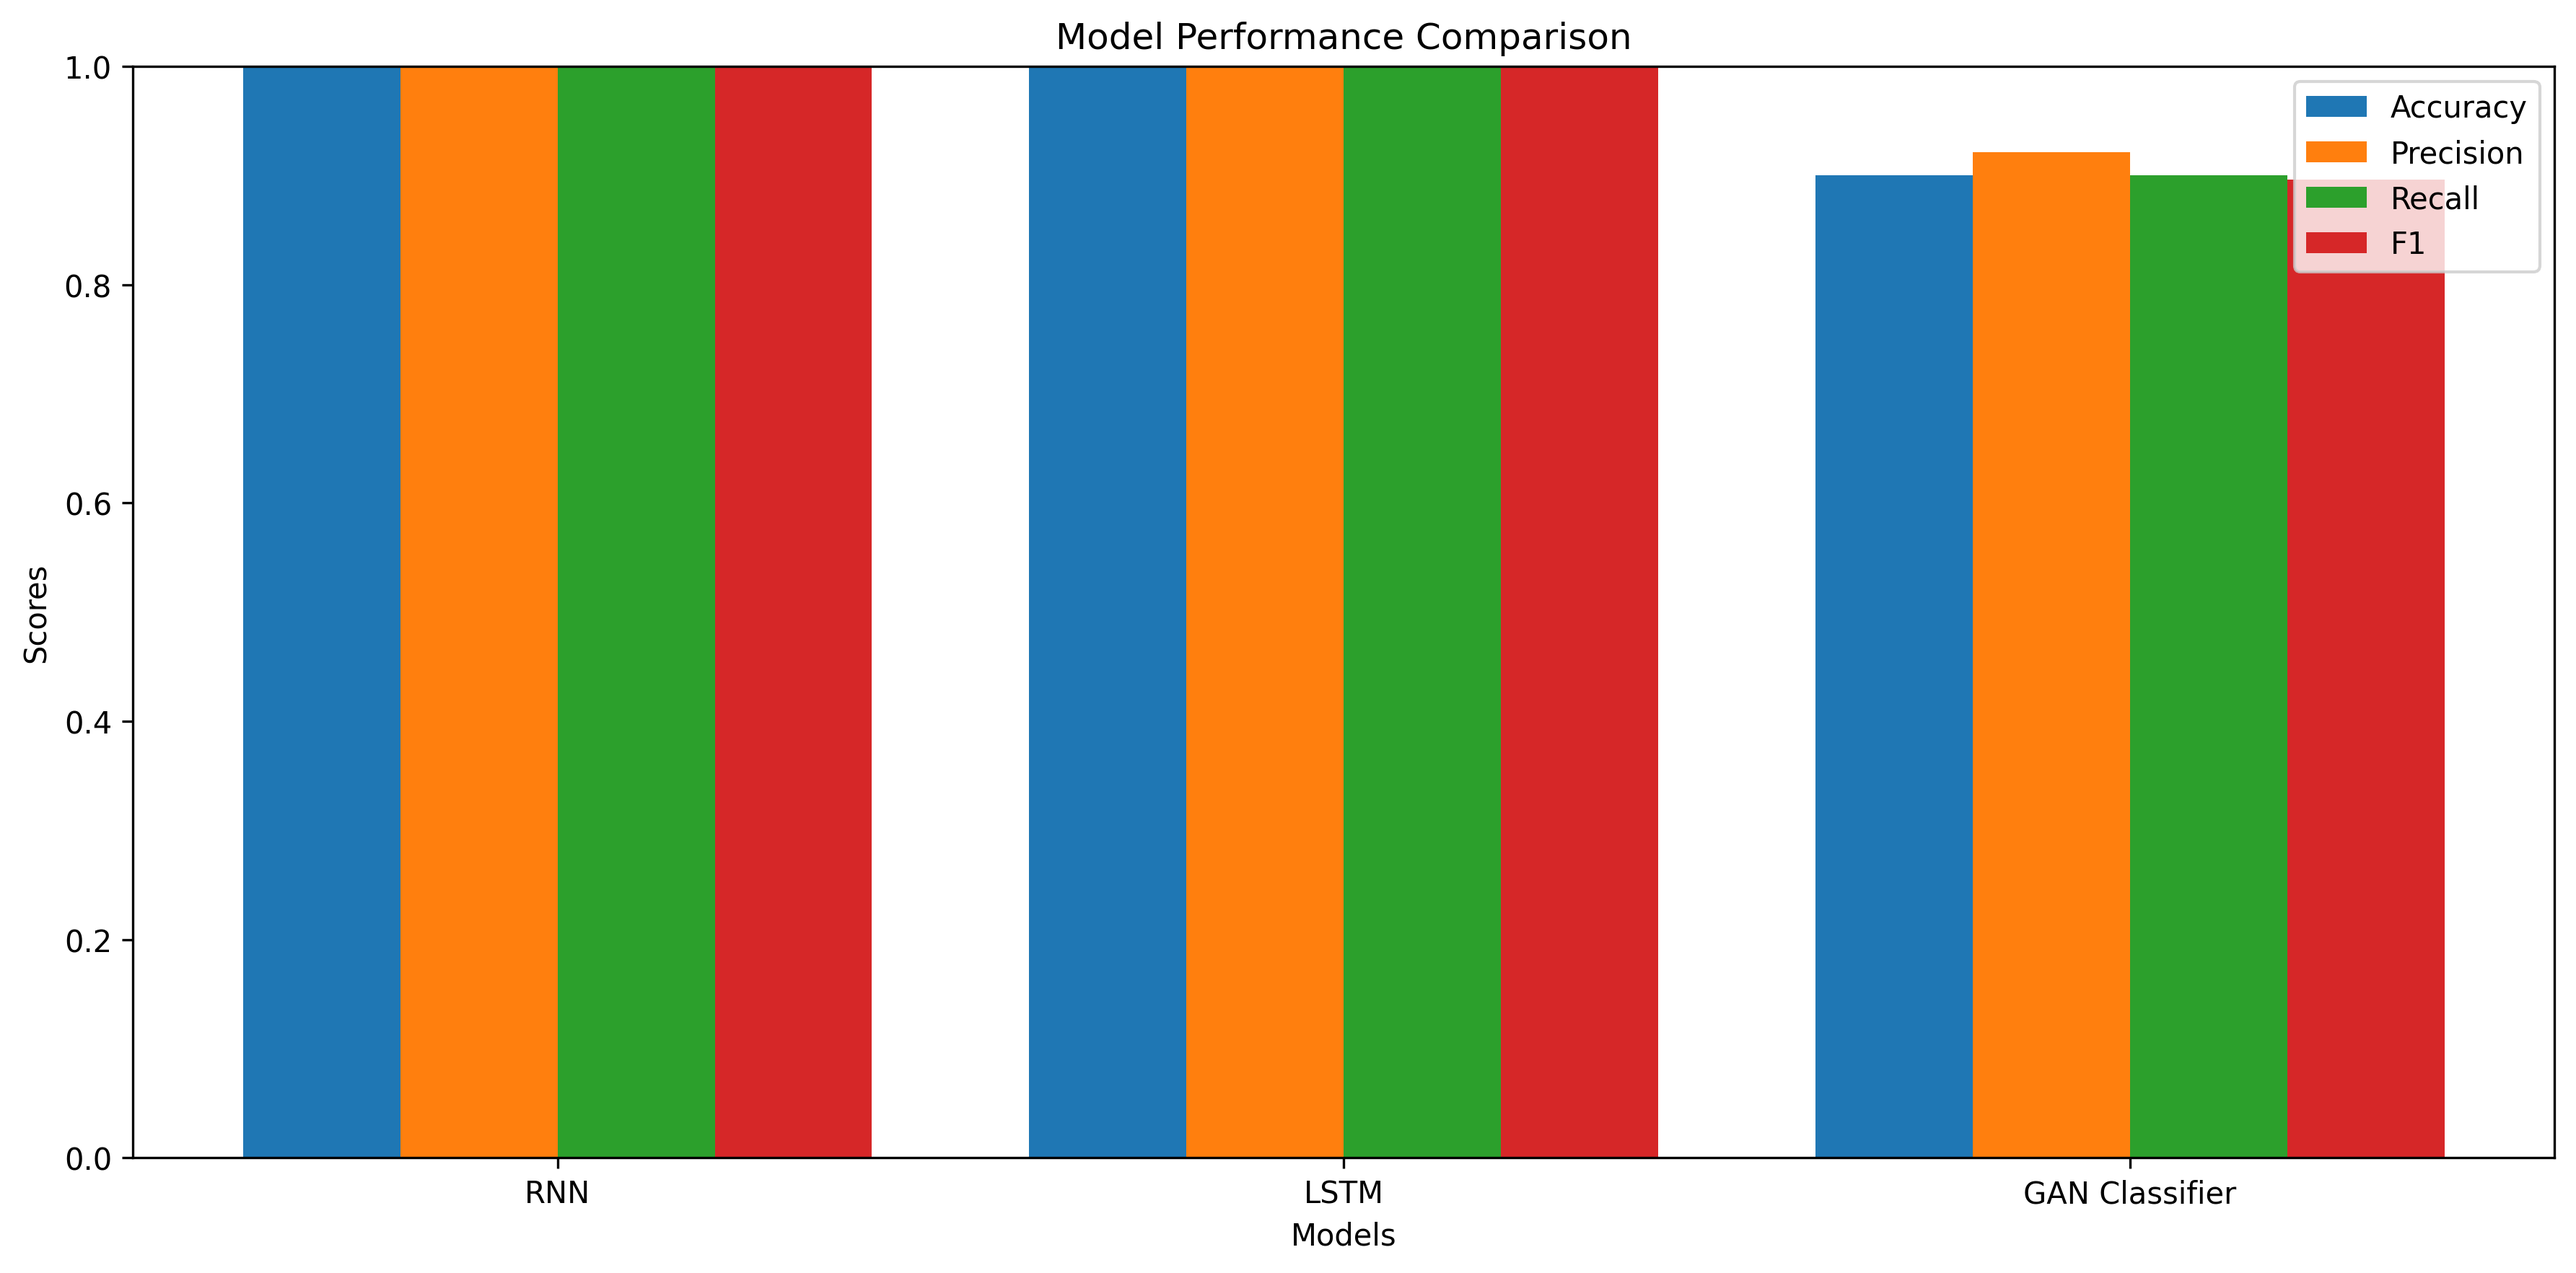
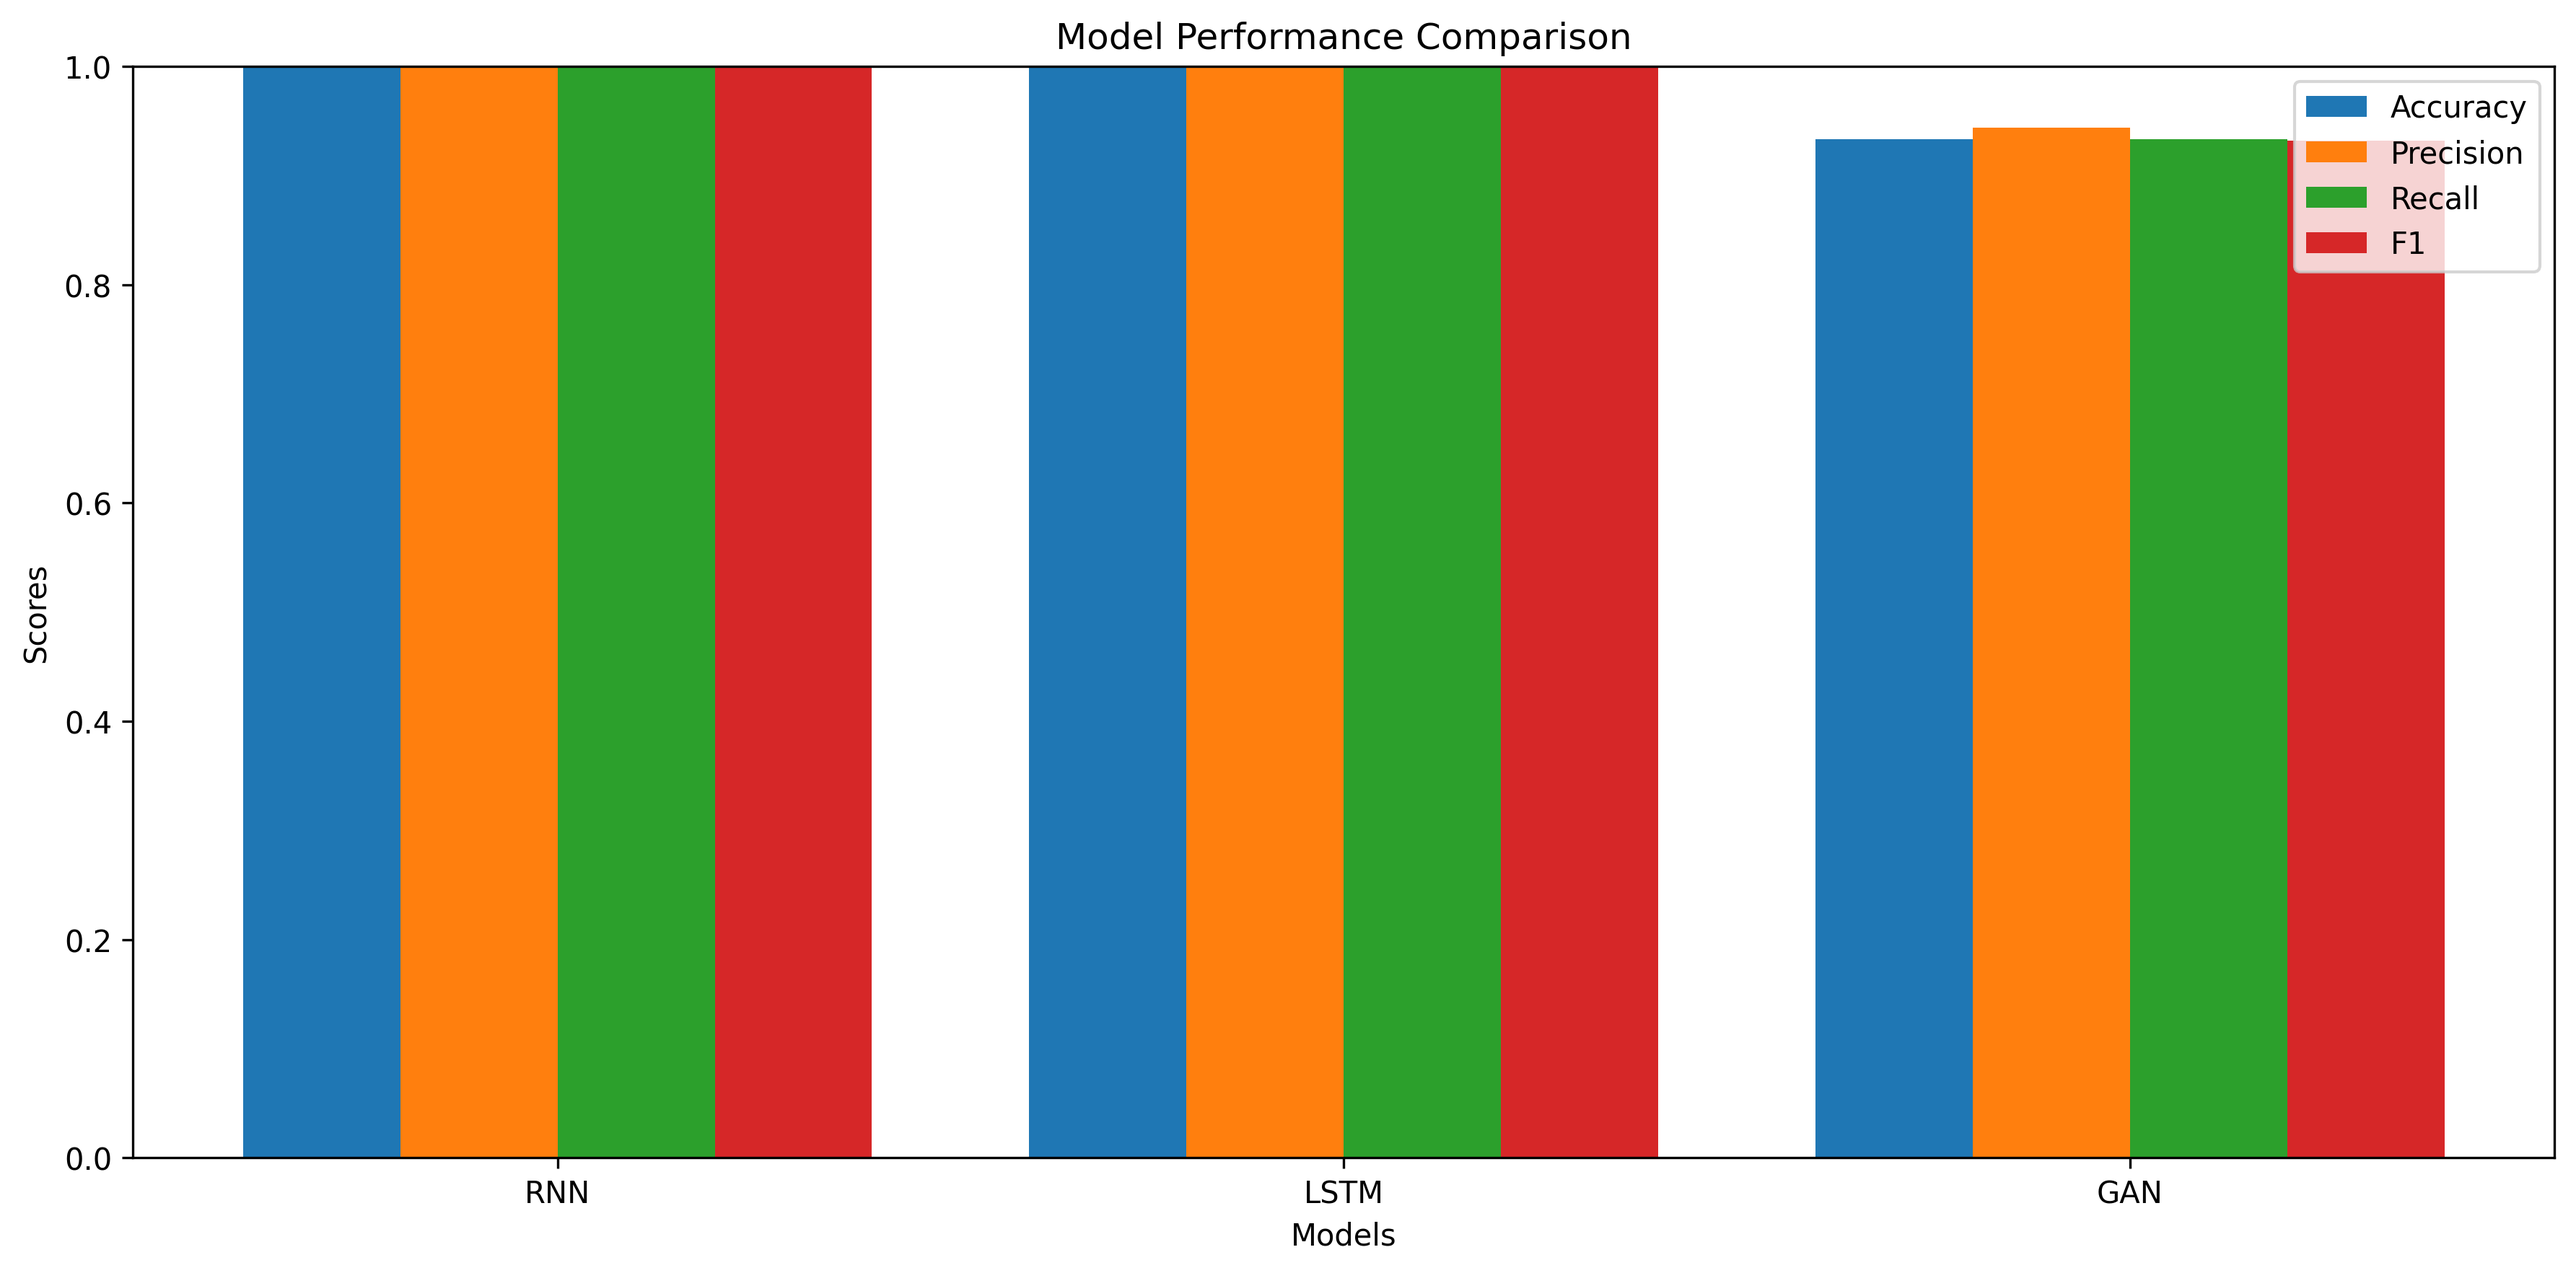
added basic metrics graphs

Changed region(s): [[0.684, 0.0935, 0.9639, 0.1558], [0.7773, 0.9037, 0.8706, 0.966]]

diff --git a/Main.py b/Main.py
@@ -2,45 +2,12 @@
 
 import numpy as np
 import pandas as pd
-import matplotlib.pyplot as plt
 from data_utils import load_and_preprocess_iris, reshape_for_rnn
 from rnn_model import RNNModel
 from lstm_model import LSTMModel
 from gan_model import GAN, GANClassifier
-
-
-def print_metrics(model_name, metrics):
-    """Print model evaluation metrics."""
-    print(f"\n{model_name} Metrics:")
-    print(f"  Accuracy:  {metrics['accuracy']:.4f}")
-    print(f"  Precision: {metrics['precision']:.4f}")
-    print(f"  Recall:    {metrics['recall']:.4f}")
-    print(f"  F1-Score:  {metrics['f1']:.4f}")
-
-
-def plot_metrics(model_names, metrics_list, filename='results.png'):
-    """Plot bar chart for model metrics."""
-    x = np.arange(len(model_names))
-    width = 0.2
-    
-    fig, ax = plt.subplots(figsize=(12, 6))
-    metrics_keys = ['accuracy', 'precision', 'recall', 'f1']
-    
-    for i, key in enumerate(metrics_keys):
-        values = [m[key] for m in metrics_list]
-        ax.bar(x + i*width, values, width, label=key.capitalize())
-    
-    ax.set_xlabel('Models')
-    ax.set_ylabel('Scores')
-    ax.set_title('Model Performance Comparison')
-    ax.set_xticks(x + width * 1.5)
-    ax.set_xticklabels(model_names)
-    ax.legend()
-    ax.set_ylim(0, 1)
-    plt.tight_layout()
-    plt.savefig(filename, dpi=300, bbox_inches='tight')
-    plt.show()
-    print(f"Graph saved as {filename}")
+from evaluation import print_metrics, plot_confusion_matrix, plot_learning_curves, plot_metrics
+from cross_validation import get_cv_scores
 
 
 def main():
@@ -50,102 +17,89 @@ def main():
     print("Loading and preprocessing data...")
     print("="*60)
     
-    # Load and preprocess data
-    X_train, X_test, y_train, y_test, scaler, encoder = load_and_preprocess_iris()
-    print(f"Training set shape: {X_train.shape}")
-    print(f"Test set shape: {X_test.shape}")
+    # Load data
+    X, X_test, y, y_test, scaler, encoder = load_and_preprocess_iris()
+    X_rnn, X_test_rnn = reshape_for_rnn(X, X_test)
     
-    # Reshape for RNN/LSTM
-    X_train_rnn, X_test_rnn = reshape_for_rnn(X_train, X_test)
-    print(f"RNN-reshaped training shape: {X_train_rnn.shape}")
+    print(f"Full dataset shape: {X.shape}")
     
-    # ==================== RNN MODEL ====================
+    # ==================== CROSS-VALIDATION ====================
     print("\n" + "="*60)
-    print("Training RNN Model...")
+    print("CROSS-VALIDATION (5-fold)")
     print("="*60)
     
-    rnn = RNNModel(hidden_units=50, dropout=0.1, learning_rate=0.001)
+    rnn_cv = get_cv_scores(RNNModel, X_rnn, y, input_shape=(1, 4), cv_folds=5)
+    print(f"RNN CV: {rnn_cv['mean_accuracy']:.4f} (+/- {rnn_cv['std_accuracy']:.4f})")
+    
+    lstm_cv = get_cv_scores(LSTMModel, X_rnn, y, input_shape=(1, 4), cv_folds=5)
+    print(f"LSTM CV: {lstm_cv['mean_accuracy']:.4f} (+/- {lstm_cv['std_accuracy']:.4f})")
+    
+    # ==================== TRAIN AND EVALUATE ====================
+    print("\n" + "="*60)
+    print("Training individual models...")
+    print("="*60)
+    
+    # RNN
+    rnn = RNNModel(hidden_units=50, dropout=0.1)
     rnn.build(input_shape=(1, 4), num_classes=3)
-    rnn.train(X_train_rnn, y_train, epochs=50, batch_size=10, validation_split=0.2, verbose=0)
+    rnn_history = rnn.train(X_rnn, y, epochs=50, batch_size=10, validation_split=0.2)
     rnn_metrics = rnn.evaluate(X_test_rnn, y_test)
     print_metrics("RNN", rnn_metrics)
+    plot_learning_curves(rnn_history, "RNN")
     
-    # ==================== LSTM MODEL ====================
-    print("\n" + "="*60)
-    print("Training LSTM Model...")
-    print("="*60)
+    y_pred_rnn = np.argmax(rnn.predict(X_test_rnn), axis=1)
+    y_test_labels = np.argmax(y_test, axis=1)
+    plot_confusion_matrix(y_test_labels, y_pred_rnn, "RNN")
     
-    lstm = LSTMModel(hidden_units=50, dropout=0.1, learning_rate=0.001)
+    # LSTM
+    lstm = LSTMModel(hidden_units=50, dropout=0.1)
     lstm.build(input_shape=(1, 4), num_classes=3)
-    lstm.train(X_train_rnn, y_train, epochs=50, batch_size=10, validation_split=0.2, verbose=0)
+    lstm_history = lstm.train(X_rnn, y, epochs=50, batch_size=10, validation_split=0.2)
     lstm_metrics = lstm.evaluate(X_test_rnn, y_test)
     print_metrics("LSTM", lstm_metrics)
+    plot_learning_curves(lstm_history, "LSTM")
     
-    # ==================== GAN MODEL ====================
+    y_pred_lstm = np.argmax(lstm.predict(X_test_rnn), axis=1)
+    plot_confusion_matrix(y_test_labels, y_pred_lstm, "LSTM")
+    
+    # GAN (no CV for GAN - complex)
     print("\n" + "="*60)
-    print("Training GAN Model...")
+    print("Training GAN...")
     print("="*60)
     
-    gan = GAN(input_dim=4, generator_units=8, discriminator_units=8, learning_rate=0.0002)
+    gan = GAN(input_dim=4, generator_units=8, discriminator_units=8)
     gan.build_generator()
     gan.build_discriminator()
     gan.build_gan()
-    gan.train(X_train, epochs=100, batch_size=32, verbose_interval=50)
+    gan.train(X, epochs=100, batch_size=32)
     
-    print("\nGenerating augmented data with GAN...")
-    generated_samples = gan.generate_samples(X_test.shape[0])
-    gan_X = np.concatenate((X_test, generated_samples), axis=0)
-    gan_y = np.concatenate((y_test.argmax(axis=1), y_test.argmax(axis=1)), axis=0)
+    generated = gan.generate_samples(X_test.shape[0])
+    gan_X = np.concatenate((X_test, generated))
+    gan_y = np.concatenate((y_test.argmax(axis=1), y_test.argmax(axis=1)))
     gan_y_onehot = np.eye(3)[gan_y]
     
-    print("Training classifier on GAN-augmented data...")
-    gan_classifier = GANClassifier(hidden_units=10, learning_rate=0.001)
+    gan_classifier = GANClassifier(hidden_units=10)
     gan_classifier.build(input_dim=4, num_classes=3)
-    gan_classifier.train(gan_X, gan_y_onehot, epochs=50, batch_size=10, verbose=0)
-    
+    gan_history = gan_classifier.train(gan_X, gan_y_onehot, epochs=50, batch_size=10)
     gan_metrics = gan_classifier.evaluate(X_test, y_test)
-    print_metrics("GAN-based Classifier", gan_metrics)
+    print_metrics("GAN Classifier", gan_metrics)
+    plot_learning_curves(gan_history, "GAN Classifier")
     
-    # ==================== SUMMARY ====================
-    print("\n" + "="*60)
-    print("SUMMARY OF RESULTS")
-    print("="*60)
+    y_pred_gan = np.argmax(gan_classifier.predict(X_test), axis=1)
+    plot_confusion_matrix(y_test_labels, y_pred_gan, "GAN Classifier")
     
-    summary_data = {
-        'Model': ['RNN', 'LSTM', 'GAN Classifier'],
-        'Accuracy': [rnn_metrics['accuracy'], lstm_metrics['accuracy'], gan_metrics['accuracy']],
-        'Precision': [rnn_metrics['precision'], lstm_metrics['precision'], gan_metrics['precision']],
-        'Recall': [rnn_metrics['recall'], lstm_metrics['recall'], gan_metrics['recall']],
-        'F1-Score': [rnn_metrics['f1'], lstm_metrics['f1'], gan_metrics['f1']]
-    }
-    
-    summary_df = pd.DataFrame(summary_data)
-    print("\n", summary_df.to_string(index=False))
-    
-    best_model = summary_df.loc[summary_df['Accuracy'].idxmax(), 'Model']
-    best_accuracy = summary_df['Accuracy'].max()
-    print(f"\nBest Model: {best_model} with Accuracy: {best_accuracy:.4f}")
-    
-    # ==================== PLOT RESULTS ====================
-    print("\n" + "="*60)
-    print("Generating plots...")
-    print("="*60)
-    
+    # Summary plot
     all_metrics = [rnn_metrics, lstm_metrics, gan_metrics]
-    plot_metrics(['RNN', 'LSTM', 'GAN Classifier'], all_metrics)
+    plot_metrics(['RNN', 'LSTM', 'GAN'], all_metrics)
     
-    # ==================== SAVE MODELS ====================
-    print("\n" + "="*60)
-    print("Saving models...")
-    print("="*60)
+    print("\nCV and test results saved as PNG files. Task complete!")
     
-    rnn.save('models/rnn_model.h5')
-    lstm.save('models/lstm_model.h5')
-    gan.generator.save('models/gan_generator.h5')
-    gan.discriminator.save('models/gan_discriminator.h5')
-    gan_classifier.model.save('models/gan_classifier.h5')
-    
-    print("Models saved to 'models/' directory")
+    # Save models
+    rnn.save('models/rnn_model.keras')
+    lstm.save('models/lstm_model.keras')
+    gan.generator.save('models/gan_generator.keras')
+    gan.discriminator.save('models/gan_discriminator.keras')
+    gan_classifier.model.save('models/gan_classifier.keras')
 
 
 if __name__ == "__main__":

diff --git a/evaluation.py b/evaluation.py
@@ -1,0 +1,73 @@
+import matplotlib.pyplot as plt
+import numpy as np
+from sklearn.metrics import confusion_matrix, ConfusionMatrixDisplay, accuracy_score, precision_score, recall_score, f1_score
+
+def print_metrics(model_name, metrics):
+    """Print model evaluation metrics."""
+    print(f"\n{model_name} Metrics:")
+    print(f"  Accuracy:  {metrics['accuracy']:.4f}")
+    print(f"  Precision: {metrics['precision']:.4f}")
+    print(f"  Recall:    {metrics['recall']:.4f}")
+    print(f"  F1-Score:  {metrics['f1']:.4f}")
+
+def plot_metrics(model_names, metrics_list, filename='results.png'):
+    """Plot bar chart for model metrics."""
+    x = np.arange(len(model_names))
+    width = 0.2
+    
+    fig, ax = plt.subplots(figsize=(12, 6))
+    metrics_keys = ['accuracy', 'precision', 'recall', 'f1']
+    
+    for i, key in enumerate(metrics_keys):
+        values = [m[key] for m in metrics_list]
+        ax.bar(x + i*width, values, width, label=key.capitalize())
+    
+    ax.set_xlabel('Models')
+    ax.set_ylabel('Scores')
+    ax.set_title('Model Performance Comparison')
+    ax.set_xticks(x + width * 1.5)
+    ax.set_xticklabels(model_names)
+    ax.legend()
+    ax.set_ylim(0, 1)
+    plt.tight_layout()
+    plt.savefig(filename, dpi=300, bbox_inches='tight')
+    plt.show()
+    print(f"Graph saved as {filename}")
+
+def plot_learning_curves(history, model_name):
+    """Plot training and validation loss/accuracy."""
+    fig, (ax1, ax2) = plt.subplots(1, 2, figsize=(12, 4))
+    
+    # Loss
+    ax1.plot(history.history['loss'], label='Train Loss')
+    if 'val_loss' in history.history:
+        ax1.plot(history.history['val_loss'], label='Val Loss')
+    ax1.set_title(f'{model_name} - Loss')
+    ax1.set_xlabel('Epoch')
+    ax1.set_ylabel('Loss')
+    ax1.legend()
+    
+    # Accuracy
+    ax2.plot(history.history['accuracy'], label='Train Acc')
+    if 'val_accuracy' in history.history:
+        ax2.plot(history.history['val_accuracy'], label='Val Acc')
+    ax2.set_title(f'{model_name} - Accuracy')
+    ax2.set_xlabel('Epoch')
+    ax2.set_ylabel('Accuracy')
+    ax2.legend()
+    
+    plt.tight_layout()
+    plt.savefig(f'{model_name.lower()}_learning_curves.png', dpi=300, bbox_inches='tight')
+    plt.show()
+    print(f"Learning curves saved for {model_name}")
+
+def plot_confusion_matrix(y_true, y_pred, model_name):
+    """Plot confusion matrix."""
+    cm = confusion_matrix(y_true, y_pred)
+    disp = ConfusionMatrixDisplay(confusion_matrix=cm)
+    disp.plot(cmap=plt.cm.Blues)
+    plt.title(f'{model_name} Confusion Matrix')
+    plt.savefig(f'{model_name.lower()}_confusion_matrix.png', dpi=300, bbox_inches='tight')
+    plt.show()
+    print(f"Confusion matrix saved for {model_name}")
+

diff --git a/cross_validation.py b/cross_validation.py
@@ -1,0 +1,39 @@
+from sklearn.model_selection import KFold
+from sklearn.preprocessing import LabelEncoder
+from sklearn.metrics import accuracy_score
+import numpy as np
+
+def get_cv_scores(model_class, X, y, input_shape, num_classes=3, cv_folds=5, epochs=30, hidden_units=50):
+    """
+    Custom CV for Keras models.
+    """
+    kf = KFold(n_splits=cv_folds, shuffle=True, random_state=42)
+    cv_scores = []
+    
+    for fold, (train_idx, val_idx) in enumerate(kf.split(X)):
+        print(f"CV Fold {fold+1}/{cv_folds}")
+        
+        X_train_fold, X_val_fold = X[train_idx], X[val_idx]
+        y_train_fold, y_val_fold = y[train_idx], y[val_idx]
+        
+        # Build model
+        model = model_class(hidden_units=hidden_units)
+        model.build(input_shape=input_shape, num_classes=num_classes)
+        
+        # Train
+        history = model.train(X_train_fold, y_train_fold, epochs=epochs, batch_size=10, validation_split=0.0, verbose=0)
+        
+        # Evaluate
+        y_pred_fold = model.predict(X_val_fold)
+        y_pred_labels = np.argmax(y_pred_fold, axis=1)
+        y_val_labels = np.argmax(y_val_fold, axis=1)
+        
+        score = accuracy_score(y_val_labels, y_pred_labels)
+        cv_scores.append(score)
+    
+    return {
+        'mean_accuracy': np.mean(cv_scores),
+        'std_accuracy': np.std(cv_scores),
+        'scores': cv_scores
+    }
+

diff --git a/TODO.md b/TODO.md
@@ -1,0 +1,6 @@
+# Progress
+- [x] Created evaluation.py (curves, confusion)
+- [x] Created cross_validation.py (5-fold CV)
+- [x] Updated Main.py imports + calls
+- [ ] Test run
+
